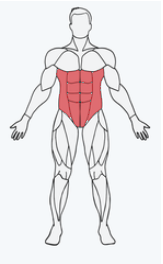
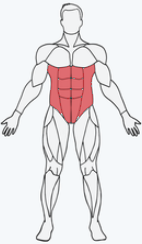
se hizo responsive en celular y tablet en la página ejercicios. Se cambió una imagen en ejercicios.

Changed region(s): [[0.0, 0.0, 1.0, 1.0]]

diff --git a/css/styles.css b/css/styles.css
@@ -14,11 +14,19 @@ font-size: 4rem;
 
 }
 
+
 span, p {
 color: aliceblue;
 }
 
- /* header y nav*/
+ /* ======================header y nav============================*/
+ 
+ .titulo-principal {
+    font-size: 4rem;
+        color: #0c59cf
+    
+    }
+ 
  header{
     background-color: #460e56; 
     display: flex;
@@ -38,16 +46,48 @@ color: aliceblue;
     justify-content: space-evenly;
     align-content: center;
     font-size: 1.2rem;
+    list-style: none;
   }
 
  .links-principales{
 color: #0c59cf;
 
- }
+}
+
+@media (min-width:750px){
+    header{
+        background-color: #460e56; 
+        display: flex;
+        flex-direction: row;
+        justify-content: center;
+        height: 150px; }
+        
+        .titulo-principal {
+            font-size: 5rem;
+                color: #0c59cf
+            
+            }
+         
+            nav{ 
+                height: 50px;
+                background-color: black;
+             }
+            
+
+             .lista-navegacion{
+                display: flex;
+                justify-content: space-evenly;
+                align-content: center;
+                font-size: 1.6rem;
+                list-style: none;
+              }
+            
 
 
+}
 
- /* secciones*/
+
+ /* =======================sección ejecicio*=======================================*/
 
  
 
@@ -69,26 +109,32 @@ height: 50%;
     font-size: 1.5rem;
 }
 
+@media (min-width:750px) {
+
+    .ejercicios{
+        display: flex;
+        flex-direction: column;
+        align-items: center;
+        gap: 100px;
+        }
+       
+        
+        .caja-ejercicios img{
+            border-radius: 20%;
+            width: 400px;
+            height: 60%
+            } 
+            .caja-ejercicios h3{
+                display: flex;
+                justify-content: center;
+                font-size: 2rem;
+            }
+        
+        }
 
 
 
-
-
-
-
-
-
-
-
-
-
-
-
-
-
-
-
-/* footer */
+/* =========================footer=========================== */
 
 .caja-footer{
     display: flex;
@@ -106,3 +152,25 @@ height: 50%;
 .caja-footer p, span{
     color: #0c59cf;
 }
+
+@media (min-width:750px){
+
+    .caja-footer{
+        display: flex;
+        padding: 15px;
+        height: 25vh;
+        background-color: black;
+        flex-direction: column;
+        justify-content: space-between
+        
+} 
+.titulo-footer{
+    color: #0c59cf;
+    font-size: 2.9rem;
+}
+
+.caja-footer p, span{
+    color: #0c59cf;
+    font-size: 1.55rem;
+
+}}

diff --git a/pages/ejercicios.html b/pages/ejercicios.html
@@ -51,7 +51,7 @@
     
             <div class="caja-ejercicios"> 
             <h3 class="titulos">abdomen</h3>
-            <img src="../img/esquemaabdomen.png" alt="ejercicio abdomen">
+            <img src="../img/abdoomen.png" alt="ejercicio abdomen">
         </div>
        
 
